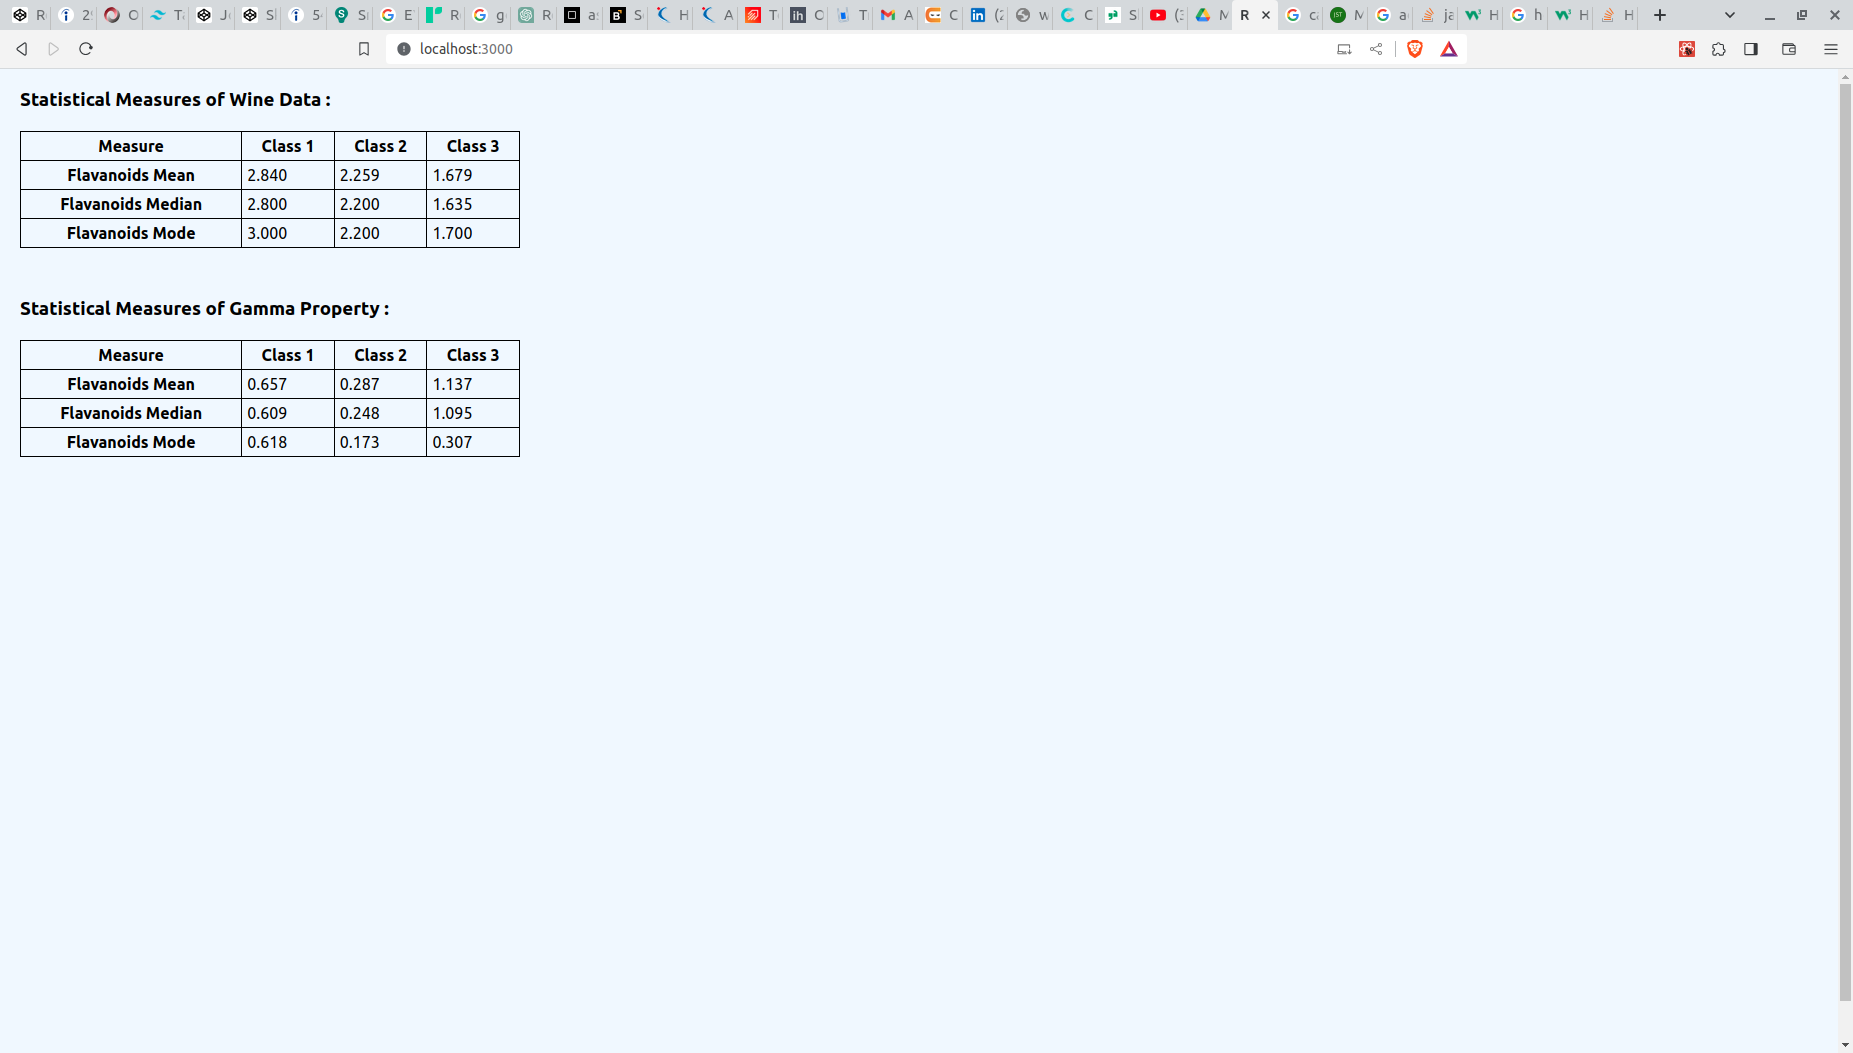
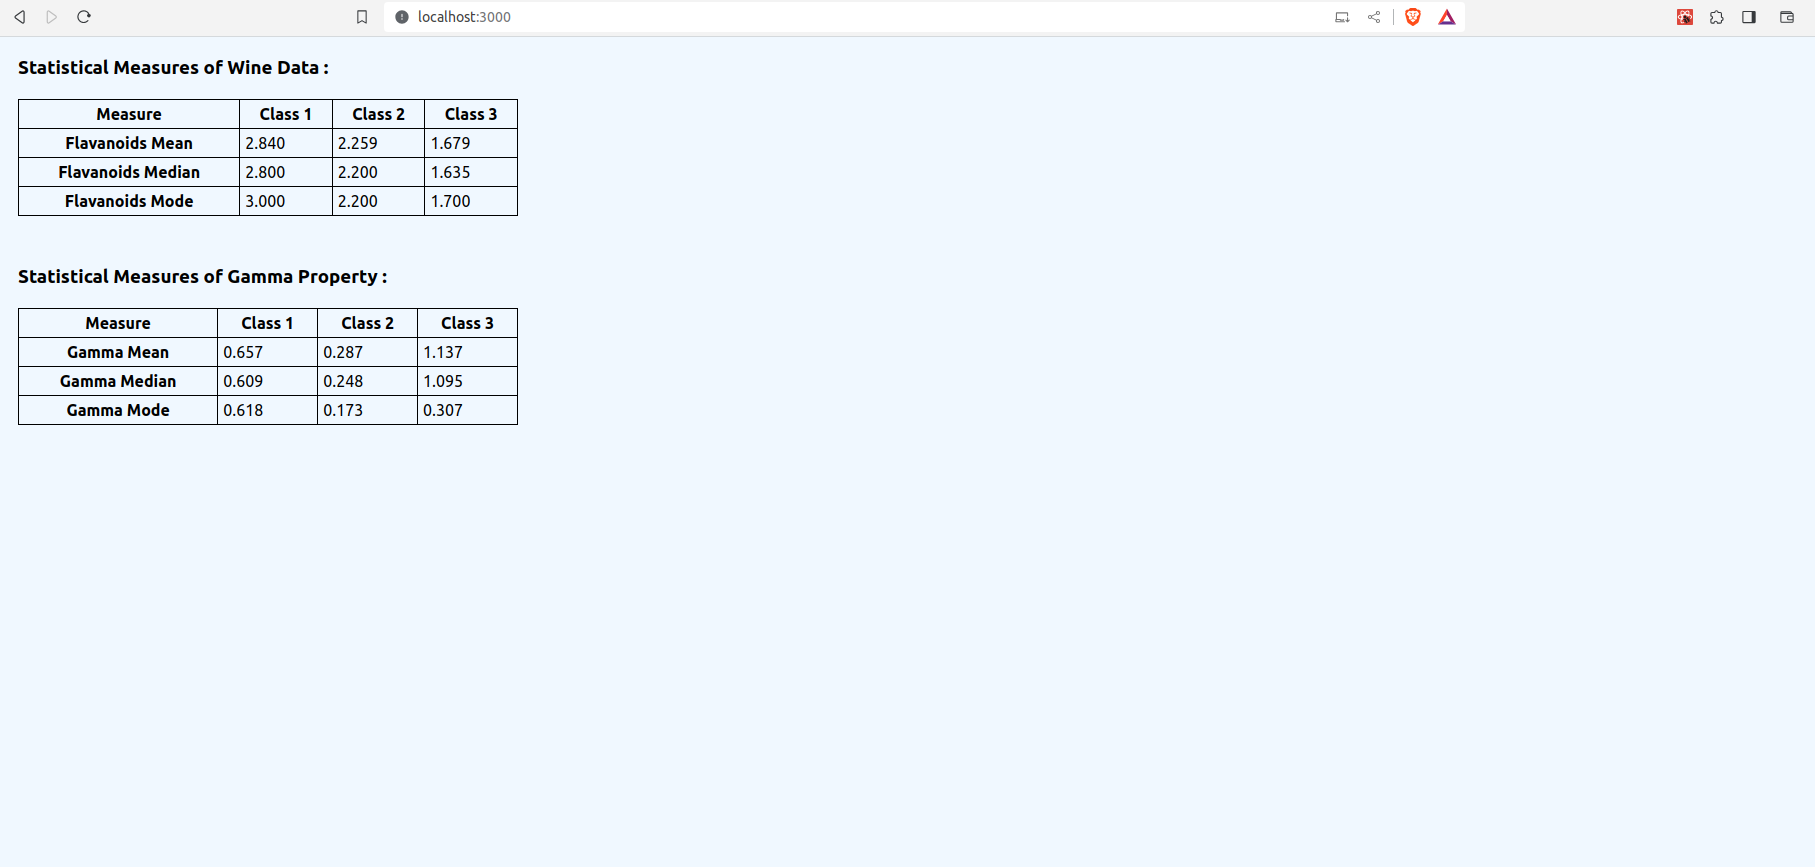
typos fixed

Changed region(s): [[0.0, 0.0, 1.0, 0.9654], [0.0, 0.2803, 0.2777, 0.4983]]

diff --git a/src/index.tsx b/src/index.tsx
@@ -1,19 +1,11 @@
-import React from 'react';
-import ReactDOM from 'react-dom/client';
-import './index.css';
-import App from './App';
-import reportWebVitals from './reportWebVitals';
+import React from "react";
+import ReactDOM from "react-dom/client";
+import "./index.css";
+import App from "./App";
 
-const root = ReactDOM.createRoot(
-  document.getElementById('root') as HTMLElement
-);
+const root = ReactDOM.createRoot(document.getElementById("root") as HTMLElement);
 root.render(
   <React.StrictMode>
     <App />
   </React.StrictMode>
 );
-
-// If you want to start measuring performance in your app, pass a function
-// to log results (for example: reportWebVitals(console.log))
-// or send to an analytics endpoint. Learn more: https://bit.ly/CRA-vitals
-reportWebVitals();

diff --git a/src/components/GammaReport/index.jsx b/src/components/GammaReport/index.jsx
@@ -33,19 +33,19 @@ const GammaReport = () => {
 
         <tbody>
           <tr>
-            <th>Flavanoids Mean</th>
+            <th>Gamma Mean</th>
             {Object.keys(meanData).map((key, i) => (
               <td key={i}> {meanData[key]}</td>
             ))}
           </tr>
           <tr>
-            <th>Flavanoids Median</th>
+            <th>Gamma Median</th>
             {Object.keys(medianData).map((key, i) => (
               <td key={i}> {medianData[key]}</td>
             ))}
           </tr>
           <tr>
-            <th>Flavanoids Mode</th>
+            <th>Gamma Mode</th>
             {Object.keys(modeData).map((key, i) => (
               <td key={i}> {modeData[key]}</td>
             ))}

diff --git a/README.md b/README.md
@@ -6,38 +6,16 @@ This project was bootstrapped with [Create React App](https://github.com/faceboo
 
 In the project directory, you can run:
 
-### `npm start`
+### `yarn start`
 
 Runs the app in the development mode.\
 Open [http://localhost:3000](http://localhost:3000) to view it in the browser.
 
-The page will reload if you make edits.\
-You will also see any lint errors in the console.
+### `yarn add <package-name>`
 
-### `npm test`
+Add package in the project and maintains entry in package.json
 
-Launches the test runner in the interactive watch mode.\
-See the section about [running tests](https://facebook.github.io/create-react-app/docs/running-tests) for more information.
-
-### `npm run build`
-
-Builds the app for production to the `build` folder.\
-It correctly bundles React in production mode and optimizes the build for the best performance.
-
-The build is minified and the filenames include the hashes.\
-Your app is ready to be deployed!
-
-See the section about [deployment](https://facebook.github.io/create-react-app/docs/deployment) for more information.
-
-### `npm run eject`
-
-**Note: this is a one-way operation. Once you `eject`, you can’t go back!**
-
-If you aren’t satisfied with the build tool and configuration choices, you can `eject` at any time. This command will remove the single build dependency from your project.
-
-Instead, it will copy all the configuration files and the transitive dependencies (webpack, Babel, ESLint, etc) right into your project so you have full control over them. All of the commands except `eject` will still work, but they will point to the copied scripts so you can tweak them. At this point you’re on your own.
-
-You don’t have to ever use `eject`. The curated feature set is suitable for small and middle deployments, and you shouldn’t feel obligated to use this feature. However we understand that this tool wouldn’t be useful if you couldn’t customize it when you are ready for it.
+### `Screenshots`
 
 ## Learn More
 
